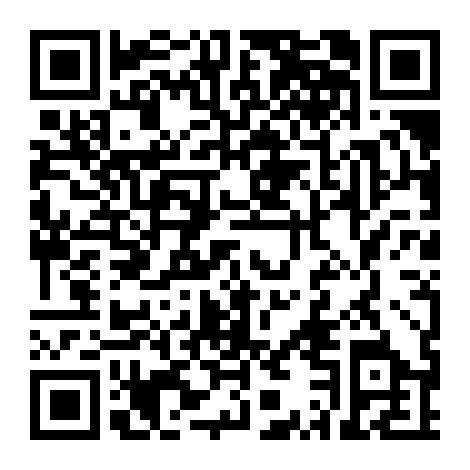
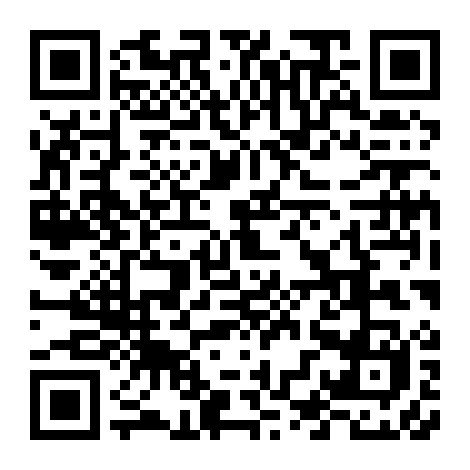
fe: 联调前后端生成预览码接口

diff --git a/make-mpcode/client/src/App.js b/make-mpcode/client/src/App.js
@@ -1,42 +1,61 @@
+import React from 'react'
 import { Button, Col, Form } from 'react-bootstrap'
 import './styles/bootstrap.mini.css';
 import './App.css';
 
-function App() {
-  return (
-    <div>
-      <h3>生成小程序服务</h3>
-      <br />
-      <Form.Group>
-        <Form.Row className="form-item">
-          <Form.Label column lg={2}>
-            小程序appid
-          </Form.Label>
-          <Col>
-            <Form.Control type="text" placeholder="Normal text" />
-          </Col>
-        </Form.Row>
-        <Form.Row className="form-item">
-          <Form.Label column lg={2}>
-            AppScret
-          </Form.Label>
-          <Col>
-            <Form.Control type="text" placeholder="Normal text" />
-          </Col>
-        </Form.Row>
-        <Form.Row className="form-item">
-          <Form.Label column lg={2}>
-            页面地址
-          </Form.Label>
-          <Col>
-            <Form.Control type="text" placeholder="Normal text" />
-          </Col>
-        </Form.Row>                
-      </Form.Group>
+export default class App extends React.Component {
+  state = {
+    previewCodeImg: ''
+  }
 
-      <Button variant="primary">点击生成小程序码</Button>
-    </div>
-  )
+  buildPreviewCode = () => {
+    fetch('/api/preview')
+      .then(res => res.json())
+      .then(res => {
+        const { previewImg } = res.data
+        this.setState({
+          previewCodeImg: previewImg,
+        })
+      })  
+  }
+
+  render() {
+    return (
+      <div>
+        <h3>自动化构建微信小程序服务</h3>
+        <br />
+        <Form.Group>
+          <Form.Row className="form-item">
+            <Form.Label column lg={2}>
+              小程序appid
+            </Form.Label>
+            <Col>
+              <Form.Control type="text" placeholder="Normal text" />
+            </Col>
+          </Form.Row>
+          <Form.Row className="form-item">
+            <Form.Label column lg={2}>
+              AppScret
+            </Form.Label>
+            <Col>
+              <Form.Control type="text" placeholder="Normal text" />
+            </Col>
+          </Form.Row>
+          <Form.Row className="form-item">
+            <Form.Label column lg={2}>
+              页面地址
+            </Form.Label>
+            <Col>
+              <Form.Control type="text" placeholder="Normal text" />
+            </Col>
+          </Form.Row>                
+        </Form.Group>
+  
+        <Button variant="primary" onClick={this.buildPreviewCode}>点击构建并生成预览码</Button>
+        {this.state.previewCodeImg &&
+        <img className="mpCodeImg" src={this.state.previewCodeImg} alt="" />
+        }
+      </div>
+    )
+  }
 }
-
-export default App;

diff --git a/make-mpcode/server/src/app.js b/make-mpcode/server/src/app.js
@@ -38,6 +38,5 @@ app.get('/api/preview', async (req, res) => {
   })
 })
 
-
 const port = 5000;
 app.listen(port, () => console.log(`make mpcode service listen on port ${5000}`))

diff --git a/make-mpcode/client/src/App.css b/make-mpcode/client/src/App.css
@@ -40,3 +40,8 @@
 .form-item {
   margin-bottom: 1rem;
 }
+
+.mpCodeImg {
+  width: 200px;
+  height: 200px;
+}
